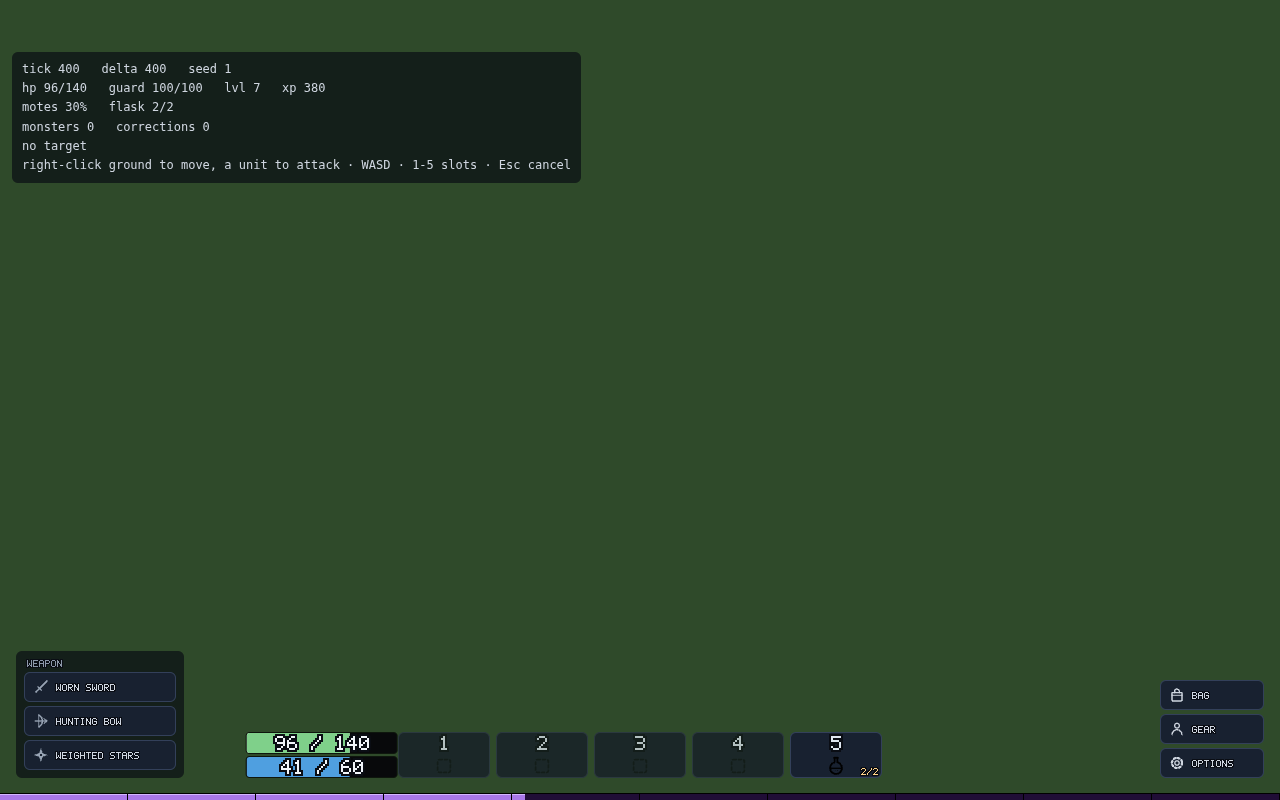
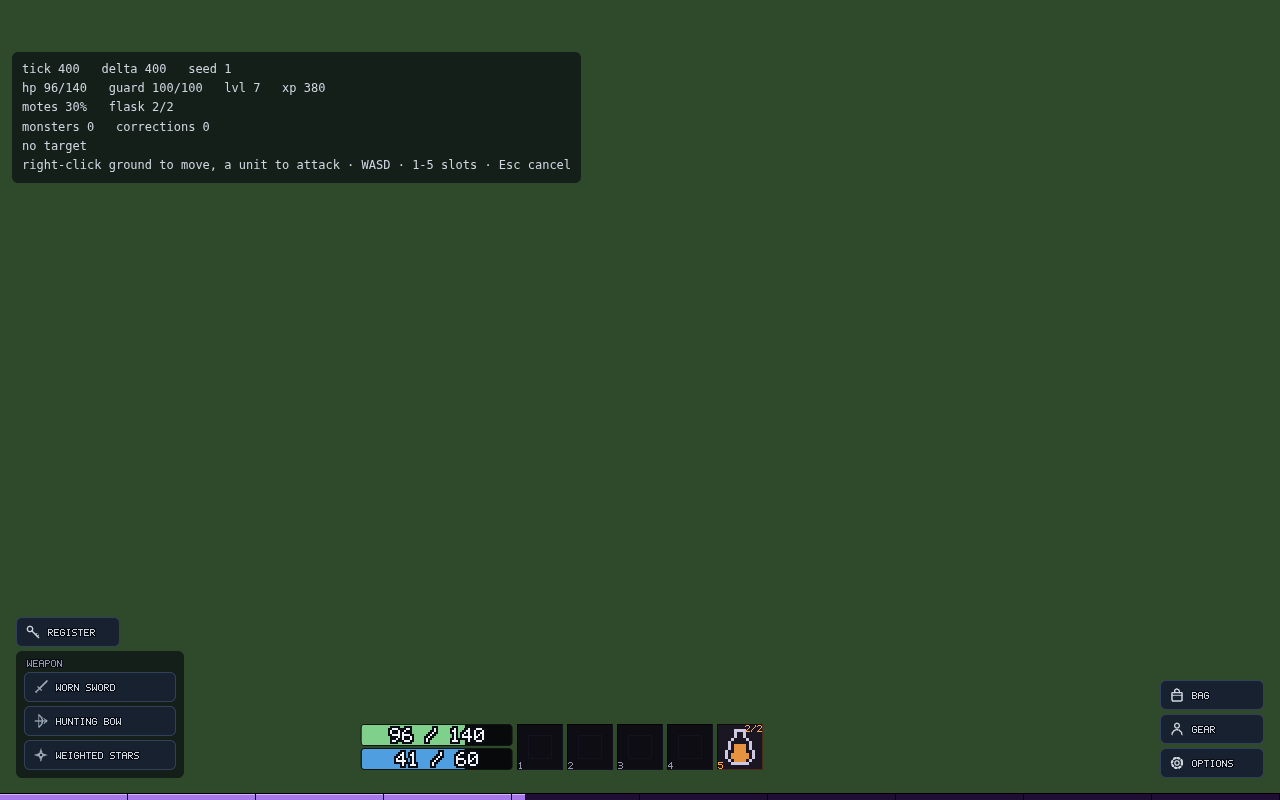
check the return in a browser (spec 281)
What the gate decides is pure and asserted in Node; whether any of it reaches
a box on screen is not, and this repo keeps finding that the wiring is the
half that breaks. So spec 164's rig drives the real gate -- a driver posting
its own cover object would be checking the boxes against itself -- and the
probe reads the ground's opacity back off the browser's own computed style,
which is the one check the whole feature is.

The rig could not show a death screen at all: `baseView` has never carried
`selfDead`, which spec 229 made the test `deathOverlay` reads, so five checks
next to the new ones had been failing since. It derives it the way
`GameClient.deadNow` does now, and they pass again.

Claude-Session: https://claude.ai/code/session_01KhNDgwowJiCqw9YRNjZbHs

Changed region(s): [[0.1875, 0.9062, 0.6875, 1.0], [0.0, 0.75, 0.0938, 0.8125]]

diff --git a/scripts/probe-bottom-hud.ts b/scripts/probe-bottom-hud.ts
@@ -29,6 +29,12 @@ import { chromium, type Page } from 'playwright';
 import { hudLayout, MIN_TAP_PX } from '../src/render/iso3d/world/hud-layout.js';
 import { ACTION_BAR, VIAL_ABILITY_ID } from '../src/render/iso3d/world/action-bar.js';
 import { xpBar } from '../src/render/iso3d/world/xp-bar.js';
+import {
+  ASKING_DETAIL,
+  COUNTDOWN_VISIBLE_MS,
+  COVER_LABEL,
+  RESPAWN_COVER_TIMEOUT_MS,
+} from '../src/render/iso3d/world/respawn-gate.js';
 
 const root = join(dirname(fileURLToPath(import.meta.url)), '..');
 const outDir = join(root, '.claude', 'screenshots');
@@ -75,6 +81,25 @@ async function box(page: Page, selector: string): Promise<DOMRect | null> {
 
 async function set(page: Page, overrides: Record<string, unknown>): Promise<void> {
   await page.evaluate((next) => window.hudProbe?.set(next), overrides);
+}
+
+/** What one element is set in, as the browser resolved it. */
+async function styleOf(page: Page, selector: string, property: string): Promise<string> {
+  return page.evaluate(
+    ([sel, prop]) => {
+      const node = document.querySelector(sel as string);
+      return node ? getComputedStyle(node).getPropertyValue(prop as string) : '';
+    },
+    [selector, property],
+  );
+}
+
+/** The text a `pixelTextSvg` element is drawing, which has no text content. */
+async function drawnText(page: Page, selector: string): Promise<string> {
+  return page.evaluate(
+    (sel) => (document.querySelector(sel as string) as HTMLElement | null)?.dataset['text'] ?? '',
+    selector,
+  );
 }
 
 async function main(): Promise<void> {
@@ -469,6 +494,84 @@ async function main(): Promise<void> {
     }
     const asked = await page.evaluate(() => window.hudProbe?.respawns() ?? 0);
     check(asked === 1, `pressing it asks the server exactly once (${asked})`);
+
+    // --- the return (spec 281) ---------------------------------------------
+    //
+    // The half of the cover no headless test can see: `respawn-gate.test.ts`
+    // says what it decides and this says whether the decision reaches a box.
+    // Driven through the *real* gate (see `hud-probe.ts`'s `cover`), so a rig
+    // posting its own object cannot flatter it.
+    console.log('returning');
+    await page.evaluate(() => window.hudProbe?.cover(0));
+    await page.waitForTimeout(50);
+    check((await box(page, '[data-death]')) !== null, 'the layer stays up for the return');
+    check(
+      (await box(page, '[data-respawn]')) === null,
+      'the respawn button is gone -- it has already been pressed',
+    );
+    check(
+      (await box(page, '[data-death] > div:first-child')) === null,
+      'and so is the death banner',
+    );
+    // The one check the whole feature is: 42% of an empty void is an empty void,
+    // so the wash a death is drawn under will not do for a return.
+    const ground = await styleOf(page, '[data-death]', 'background-color');
+    const alpha = /rgba?\(([^)]*)\)/.exec(ground)?.[1]?.split(',')[3];
+    check(
+      alpha === undefined || Number(alpha) === 1,
+      `the ground is opaque (${ground})`,
+    );
+    check(
+      (await drawnText(page, '[data-cover-label]')) === COVER_LABEL,
+      `it says ${COVER_LABEL}`,
+    );
+    check(
+      (await drawnText(page, '[data-cover-detail]')) === ASKING_DETAIL,
+      'and what it is waiting on',
+    );
+    const label = await box(page, '[data-cover-label]');
+    const track = await box(page, '[data-cover-detail]');
+    check(
+      label !== null && label.x >= 0 && label.x + label.width <= VIEWPORT.width,
+      'the label is inside the frame',
+    );
+    check(track !== null && label !== null && track.y > label.y, 'the detail sits under it');
+    await page.screenshot({ path: join(outDir, 'bottom-hud-returning.png') });
+    console.log('  wrote bottom-hud-returning.png');
+
+    // The bar follows the ground arriving, which is the only thing on this
+    // screen that says the wait is going anywhere.
+    const coverFillWidth = async (): Promise<number> =>
+      (await box(page, '[data-cover-fill]'))?.width ?? -1;
+    await page.evaluate(() => window.hudProbe?.cover(100, { dead: false, held: 6 }));
+    await page.waitForTimeout(250);
+    const early = await coverFillWidth();
+    await page.evaluate(() => window.hudProbe?.cover(200, { dead: false, held: 22 }));
+    await page.waitForTimeout(250);
+    const late = await coverFillWidth();
+    check(early > 0 && late > early, `the bar fills as chunks land (${early} -> ${late})`);
+    check(
+      (await drawnText(page, '[data-cover-detail]')).includes('CHUNKS'),
+      'and counts them',
+    );
+
+    // ...and says when it will give up, but only once that is close.
+    await page.evaluate(
+      (nowMs) => window.hudProbe?.cover(nowMs as number, { dead: false, held: 22 }),
+      RESPAWN_COVER_TIMEOUT_MS - COUNTDOWN_VISIBLE_MS,
+    );
+    await page.waitForTimeout(50);
+    check(
+      (await drawnText(page, '[data-cover-detail]')).startsWith('SHOWING THE WORLD IN'),
+      'the countdown appears near the deadline',
+    );
+
+    // And the way back: the cover lifts, and what is underneath is the death
+    // screen it was drawn over rather than a layer nobody can dismiss.
+    await page.evaluate(() => window.hudProbe?.cover(null));
+    await page.waitForTimeout(50);
+    check((await box(page, '[data-cover-label]')) === null, 'the cover lifts');
+    check((await box(page, '[data-respawn]')) !== null, 'and the button is back under it');
 
     // Alive again: the overlay goes when the body does, and nothing here
     // decided that -- the health it was handed did.

diff --git a/src/render/iso3d/hud-probe.ts b/src/render/iso3d/hud-probe.ts
@@ -2,6 +2,7 @@ import { createHud } from './world/hud.js';
 import { UiLayer } from './world/ui-layer.js';
 import { InputMap } from '../../ui/input/input-map.js';
 import type { ClientView } from '../../server/client/game-client.js';
+import { RespawnGate } from './world/respawn-gate.js';
 
 /**
  * The measuring rig for the bottom band (spec 164).
@@ -47,6 +48,16 @@ interface ProbeApi {
   reward(amount: number): void;
   /** Draw `frames` more frames, so a floating number gets somewhere. */
   advance(frames: number): void;
+  /**
+   * Drive the respawn cover from the *real* gate, at `nowMs` (spec 281).
+   *
+   * The gate rather than a hand-made `RespawnCover`, because what this rig
+   * exists to check is the path from a decision to a box on screen -- and a
+   * driver that posted its own object would be checking the box against
+   * itself. `null` presses nothing; a number is a frame timestamp, and the
+   * arming press is `ask(0)`.
+   */
+  cover(nowMs: number | null, over?: Record<string, unknown>): void;
   /**
    * Put a body's floating bar at a screen point, or take it away (spec 186).
    *
@@ -142,6 +153,8 @@ let overrides: Record<string, unknown> = {};
  */
 const PROBE_POINT = { x: 560, y: 300 };
 const hud = createHud(() => ({ x: PROBE_POINT.x, y: PROBE_POINT.y, onScreen: true }));
+/** The real gate, driven by the driver's clock (spec 281). See `cover`. */
+const respawnGate = new RespawnGate();
 hud.onRespawn(() => {
   respawnCount += 1;
 });
@@ -240,8 +253,26 @@ for (const phase of ['down', 'up', 'move'] as const) {
  */
 let anchors: { id: number; x: number; y: number; onScreen: boolean }[] = [];
 
+/** `GameClient.deadNow`, over whatever this rig has been handed. */
+function selfDeadIn(view: Record<string, unknown>): boolean {
+  const entities = view['entities'];
+  if (!Array.isArray(entities)) return false;
+  const self = (entities as { id?: number; health?: number }[]).find(
+    (entity) => entity.id === view['selfEntityId'],
+  );
+  return self !== undefined && (self.health ?? 0) <= 0;
+}
+
 function draw(): void {
-  const view = { ...baseView(), ...overrides } as unknown as ClientView;
+  const merged: Record<string, unknown> = { ...baseView(), ...overrides };
+  // `selfDead` is *derived* on the real view (spec 229) -- the local body's
+  // health against zero -- rather than being a field anybody assigns, so the rig
+  // has to derive it too. Without this a case that sets health to 0 gets a
+  // living HUD, `deathOverlay` reads `undefined` and answers null, and the death
+  // screen is simply unreachable from this page: five checks in
+  // `probe-bottom-hud.ts` had been failing on it since that spec moved the test.
+  if (!('selfDead' in merged)) merged['selfDead'] = selfDeadIn(merged);
+  const view = merged as unknown as ClientView;
   // The interface first, so the bar has been laid out by the time the HUD is
   // asked to place the pool block against it.
   ui.update(view, 1000, 400);
@@ -297,5 +328,24 @@ window.hudProbe = {
   },
   advance(frames) {
     for (let frame = 0; frame < frames; frame++) draw();
+  },
+  cover(nowMs, over) {
+    if (nowMs === null) {
+      hud.setRespawnCover(null);
+      draw();
+      return;
+    }
+    if (nowMs === 0) respawnGate.ask(0);
+    hud.setRespawnCover(
+      respawnGate.read({
+        nowMs,
+        dead: true,
+        needed: 25,
+        held: 0,
+        meshPending: 0,
+        ...over,
+      }),
+    );
+    draw();
   },
 };
